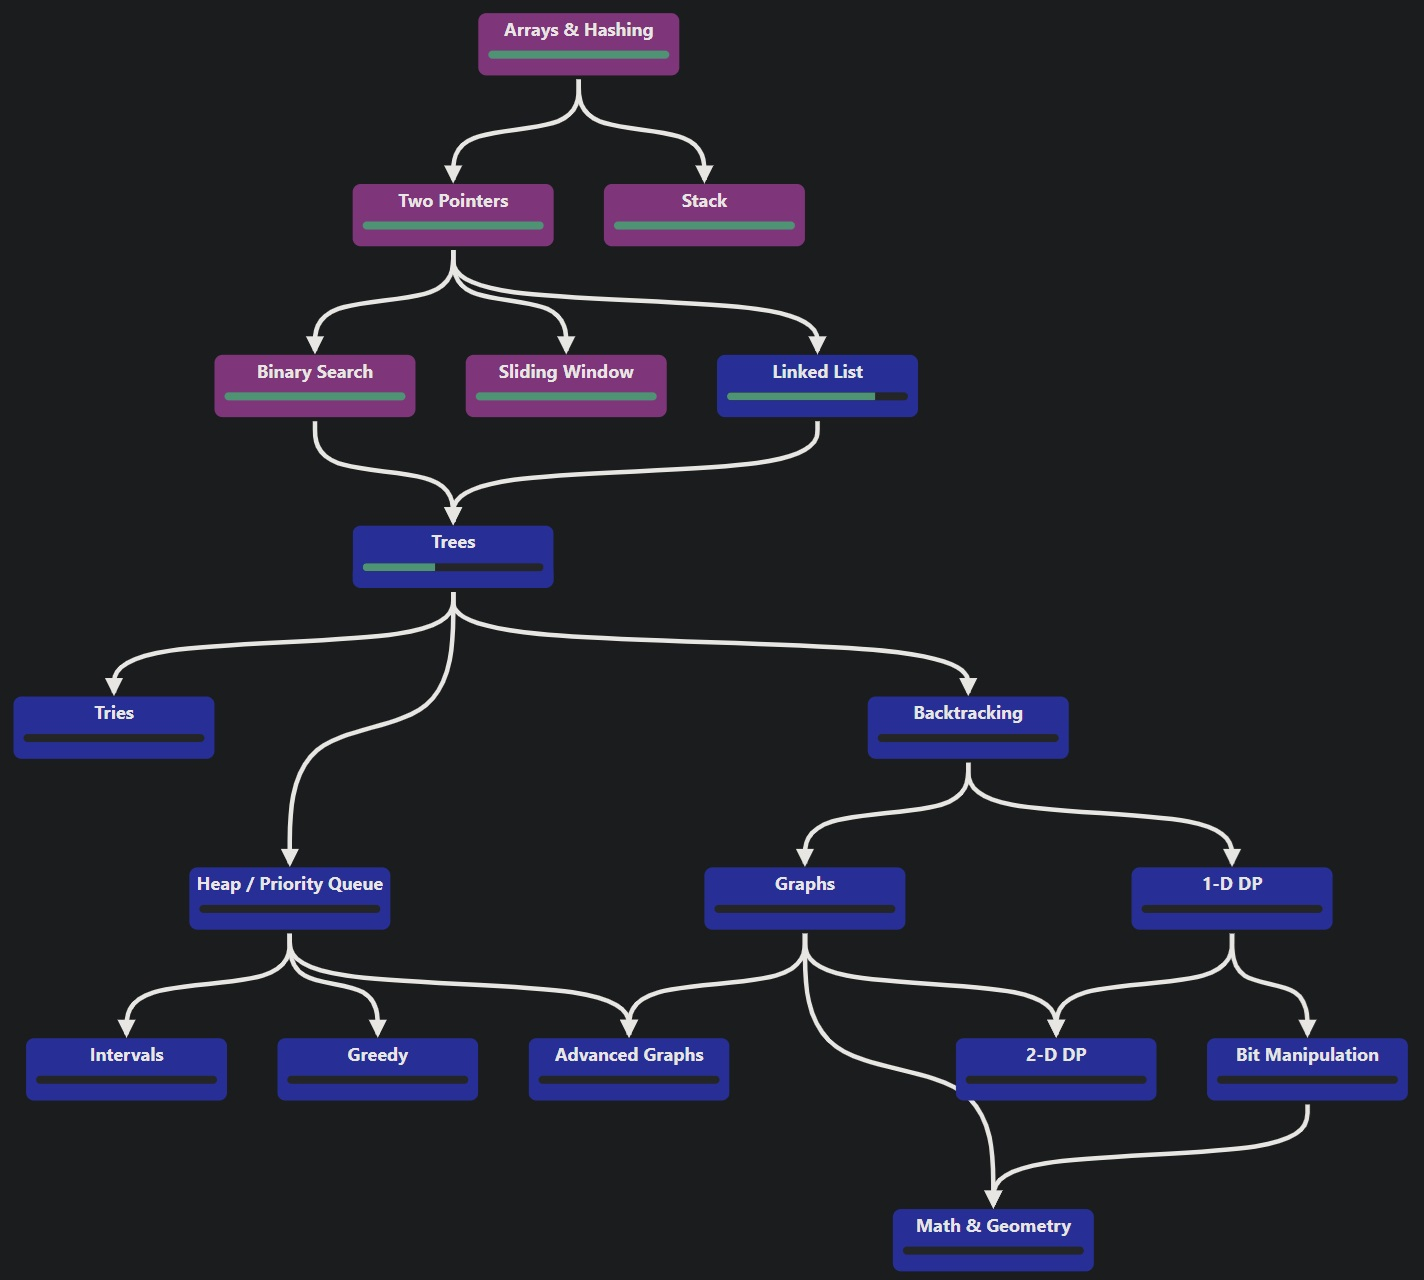
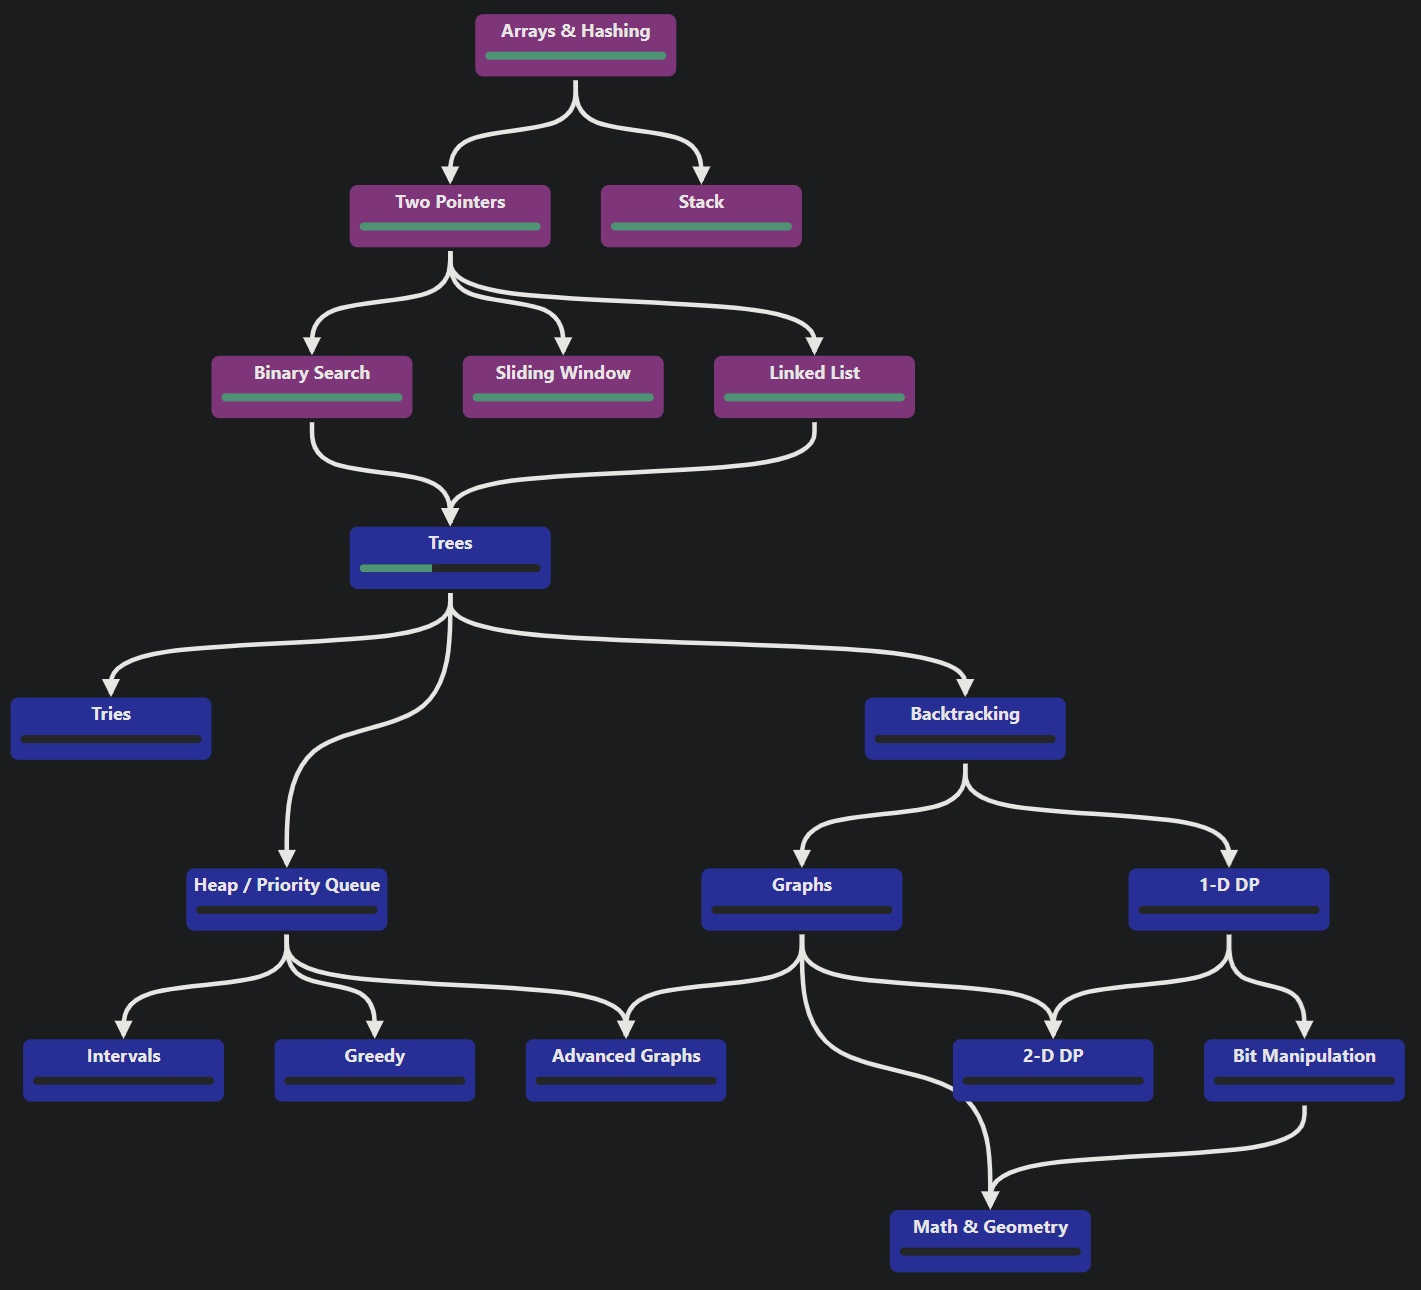
Finished "Linked List" category

diff --git a/Linked-List/Reverse-Nodes-In-K-Group.py b/Linked-List/Reverse-Nodes-In-K-Group.py
@@ -1,0 +1,56 @@
+from typing import Optional
+
+class ListNode:
+    def __init__(self, val=0, next=None):
+        self.val = val
+        self.next = next
+
+class Solution:
+    def reverseKGroup(self, head: Optional[ListNode], k: int) -> Optional[ListNode]:
+        
+        # Get the length of the list to calculate how many iterations we need
+        temp = head
+        length = 0
+        while temp:
+            length += 1
+            temp = temp.next
+
+        # Begin the standard procedure of reversing a linked list. We keep a list
+        # of the endpoints (which is the head of the subsection to be reversed) for
+        # easy joining after each iteration
+        iters = length // k
+        currIter = 0
+        endpoints = []
+        result = None
+
+        while currIter < iters:
+            
+            # Append the endpoint
+            endpoints.append(head)
+
+            # Reverse the current segment
+            count = 0
+            prev = None
+            while head and count < k:
+                nextNode = head.next
+                head.next = prev
+                prev = head
+                head = nextNode
+                count += 1
+
+            # If this is the first segment, the node that we end on is the start of the final result
+            if currIter == 0: result = prev
+
+            # If we have processed two segments, we must attach them together
+            if len(endpoints) == 2:
+                endpoints[0].next = prev
+                endpoints = [endpoints[1]]
+            
+            # Continue iterating
+            currIter += 1 
+
+        # If there is anything remaining, attach it to the last endpoint
+        if length % k != 0:
+            endpoints[0].next = nextNode
+
+        return result

diff --git a/Linked-List/Merge-K-Sorted-Lists.py b/Linked-List/Merge-K-Sorted-Lists.py
@@ -1,0 +1,37 @@
+from typing import Optional
+
+class ListNode:
+    def __init__(self, val=0, next=None):
+        self.val = val
+        self.next = next
+
+class Solution:    
+    def mergeKLists(self, lists: list[Optional[ListNode]]) -> Optional[ListNode]:
+        
+        # This solution is O(n*k). Will return to implement O(n*log(k))
+
+        # Create a dummy node for returning
+        result = head = ListNode()
+
+        # Iterate until all lists have been processed
+        while lists != [None] * len(lists):
+
+            # Find the minimum node
+            minimum = float("inf")
+            minimumHead = None
+            i = 0
+            index = None
+            for linkedList in lists:
+                if linkedList != None and linkedList.val < minimum:
+                    minimum = linkedList.val
+                    minimumHead = linkedList
+                    index = i
+                i += 1
+            
+            # Attach a node to the result with the min value and continue
+            head.next = ListNode(minimum)
+            head = head.next
+            lists[index] = minimumHead.next
+
+        # Return the node starting after the dummy node
+        return result.next
